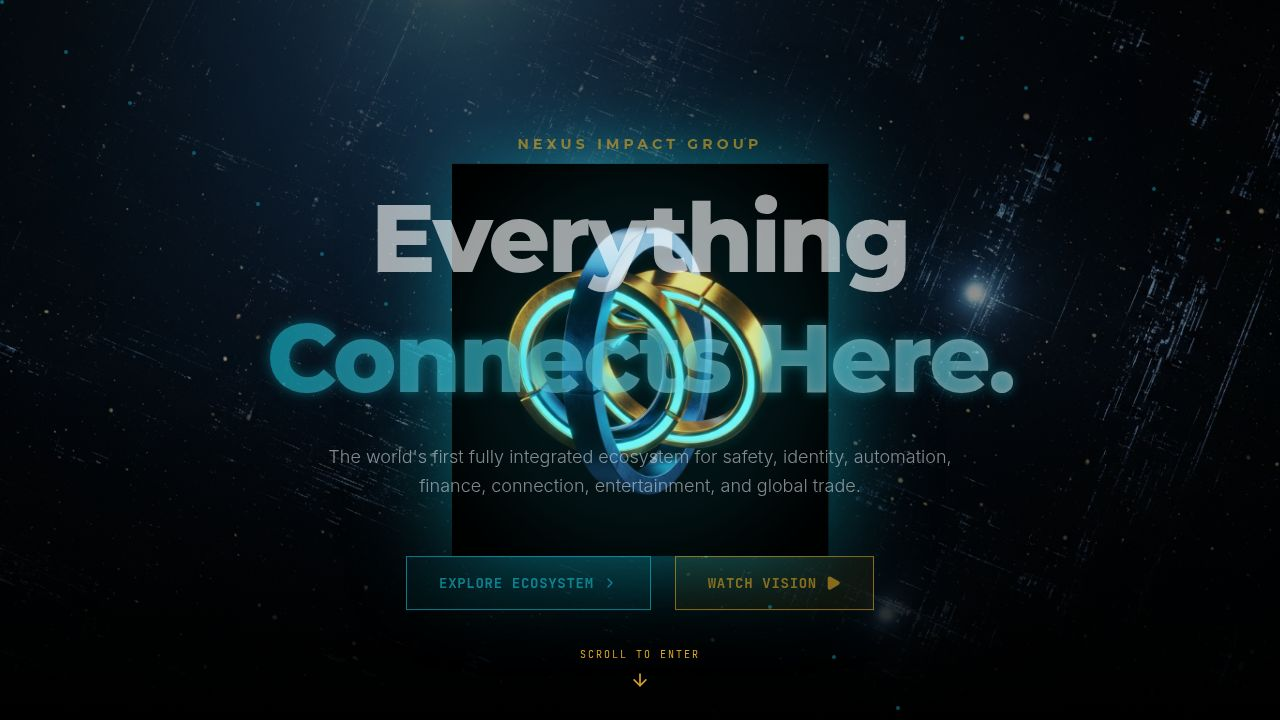
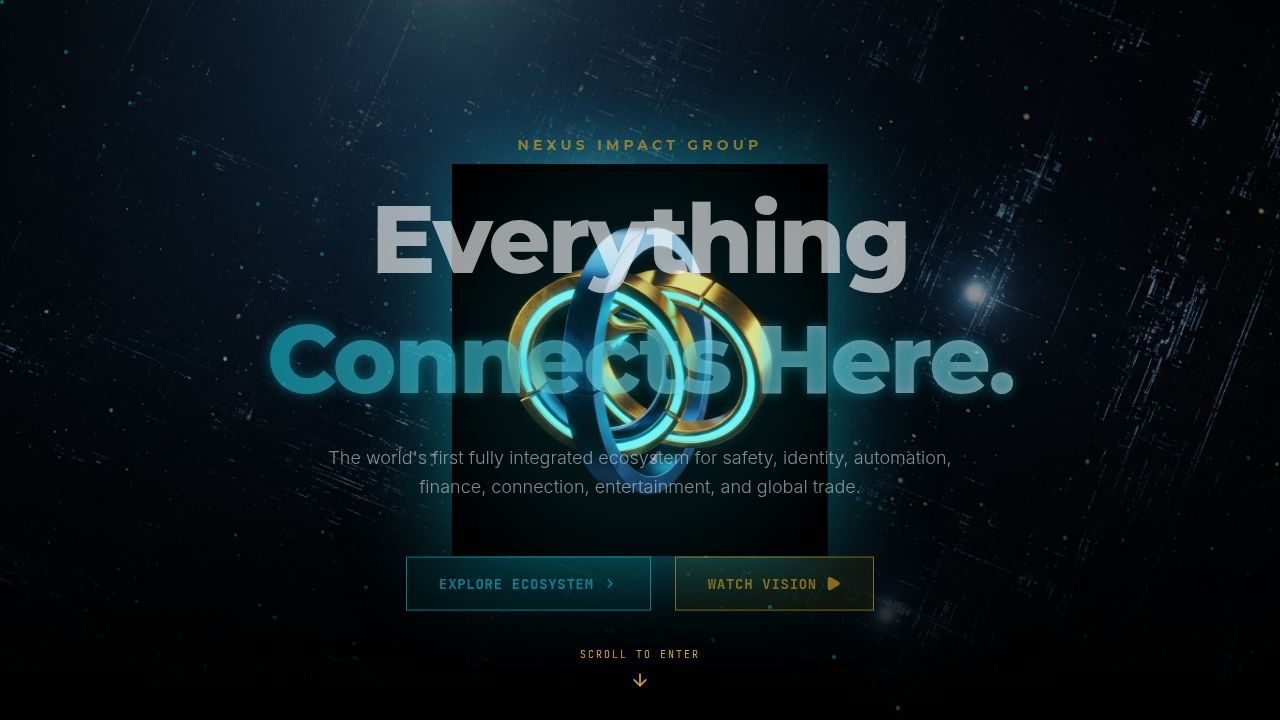
Implement robust security measures and rate limiting across the application
Integrates Helmet for security headers, CORS configuration, session cookie hardening, and various rate limiters for authentication, admin, webhooks, and public APIs. Introduces a honeypot system to trap malicious bots and logs failed login attempts with escalating severity.

Replit-Commit-Author: Agent
Replit-Commit-Session-Id: 8c876a5d-4123-418b-a8ee-dec43ac37e2d
Replit-Commit-Checkpoint-Type: full_checkpoint
Replit-Commit-Event-Id: 5db92831-eaad-4615-9e6a-5a6da0044fc3
Replit-Commit-Screenshot-Url: https://storage.googleapis.com/screenshot-production-us-central1/32500f0c-ae57-4cfb-9fa5-fe228638b5bf/8c876a5d-4123-418b-a8ee-dec43ac37e2d/YYqRui6
Replit-Helium-Checkpoint-Created: true

diff --git a/server/security/honeypot.ts b/server/security/honeypot.ts
@@ -1,0 +1,83 @@
+import { Express, Request, Response } from "express";
+import { logSecurityEvent } from "../agents/securityAgent";
+
+interface ThreatEntry {
+  ip: string;
+  url: string;
+  method: string;
+  userAgent: string;
+  timestamp: Date;
+}
+
+const threatLog: ThreatEntry[] = [];
+
+const TRAP_URLS = [
+  "/wp-admin", "/wp-admin/login", "/wp-login.php",
+  "/admin/login", "/administrator", "/admin.php",
+  "/.env", "/.env.local", "/.env.production", "/.env.backup",
+  "/config.php", "/configuration.php", "/config.json", "/config.yml",
+  "/phpMyAdmin", "/phpmyadmin", "/pma", "/mysql",
+  "/api/v1/users/admin", "/api/config", "/api/debug", "/api/test",
+  "/server-status", "/server-info",
+  "/backup.zip", "/backup.sql", "/dump.sql", "/db.sql",
+  "/install.php", "/setup.php", "/setup",
+  "/.git/config", "/.git/HEAD",
+  "/actuator", "/actuator/env", "/actuator/health",
+  "/console", "/h2-console",
+  "/swagger-ui.html", "/api-docs", "/swagger",
+  "/debug", "/trace", "/heapdump",
+  "/shell", "/cmd", "/exec",
+  "/xmlrpc.php", "/wp-json/wp/v2/users",
+  "/.DS_Store", "/robots.txt.bak",
+  "/sitemap_index.xml.gz",
+];
+
+export function registerHoneypotRoutes(app: Express) {
+  for (const url of TRAP_URLS) {
+    app.all(url, (req: Request, res: Response) => {
+      const ip = req.ip || req.socket?.remoteAddress || "unknown";
+      const entry: ThreatEntry = {
+        ip,
+        url: req.originalUrl,
+        method: req.method,
+        userAgent: req.headers["user-agent"] || "unknown",
+        timestamp: new Date(),
+      };
+      threatLog.push(entry);
+      if (threatLog.length > 500) threatLog.shift();
+
+      console.warn(`[HONEYPOT] ${entry.method} ${entry.url} from ${ip}`);
+
+      logSecurityEvent({
+        appName: "NIG Platform",
+        eventType: "honeypot_hit",
+        severity: "MEDIUM",
+        source: ip,
+        details: `Honeypot triggered: ${entry.method} ${entry.url}`,
+        metadata: JSON.stringify({ userAgent: entry.userAgent, url: entry.url, method: entry.method }),
+      }).catch(() => {});
+
+      setTimeout(() => {
+        res.status(200).send("<!-- WordPress 6.4.1 -->");
+      }, 8000);
+    });
+  }
+  console.log(`[HONEYPOT] ${TRAP_URLS.length} trap endpoints active`);
+}
+
+export function getThreatStats() {
+  const ipCounts: Record<string, number> = {};
+  for (const entry of threatLog) {
+    ipCounts[entry.ip] = (ipCounts[entry.ip] || 0) + 1;
+  }
+  const topAttackers = Object.entries(ipCounts)
+    .sort(([, a], [, b]) => b - a)
+    .slice(0, 10)
+    .map(([ip, count]) => ({ ip, count }));
+  return {
+    total: threatLog.length,
+    last24h: threatLog.filter(e => Date.now() - e.timestamp.getTime() < 86_400_000).length,
+    topAttackers,
+    recentHits: [...threatLog].reverse().slice(0, 20),
+  };
+}

diff --git a/server/index.ts b/server/index.ts
@@ -1,7 +1,10 @@
 import express, { type Request, Response, NextFunction } from "express";
+import helmet from "helmet";
+import cors from "cors";
 import { registerRoutes } from "./routes";
 import { serveStatic } from "./static";
 import { createServer } from "http";
+import { authLimiter, adminLimiter, publicLimiter } from "./security/rateLimiter";
 
 const app = express();
 const httpServer = createServer(app);
@@ -12,6 +15,31 @@ declare module "http" {
   }
 }
 
+// ── Security headers ────────────────────────────────────────────────────────
+app.use(helmet({
+  contentSecurityPolicy: false,
+  crossOriginEmbedderPolicy: false,
+}));
+
+// ── CORS ─────────────────────────────────────────────────────────────────────
+const rawAllowed = process.env.ALLOWED_ORIGINS || "";
+const allowedOrigins = rawAllowed
+  ? rawAllowed.split(",").map(o => o.trim()).filter(Boolean)
+  : [];
+
+app.use(cors({
+  origin: (origin, callback) => {
+    if (!origin) return callback(null, true);
+    if (process.env.NODE_ENV !== "production") return callback(null, true);
+    if (allowedOrigins.length === 0 || allowedOrigins.includes(origin)) {
+      return callback(null, true);
+    }
+    callback(new Error("Not allowed by CORS"));
+  },
+  credentials: true,
+}));
+
+// ── Body parsers ─────────────────────────────────────────────────────────────
 app.use(
   express.json({
     limit: "10mb",
@@ -20,8 +48,15 @@ app.use(
     },
   }),
 );
-
 app.use(express.urlencoded({ extended: false, limit: "10mb" }));
+
+// ── Rate limiting ─────────────────────────────────────────────────────────────
+app.use("/api/auth/login", authLimiter);
+app.use("/api/auth/register", authLimiter);
+app.use("/api/admin", adminLimiter);
+app.use("/api/marketplace/inquiry", publicLimiter);
+app.use("/api/inquiries", publicLimiter);
+app.use("/api/subscribe", publicLimiter);
 
 export function log(message: string, source = "express") {
   const formattedTime = new Date().toLocaleTimeString("en-US", {
@@ -30,7 +65,6 @@ export function log(message: string, source = "express") {
     second: "2-digit",
     hour12: true,
   });
-
   console.log(`${formattedTime} [${source}] ${message}`);
 }
 
@@ -52,7 +86,6 @@ app.use((req, res, next) => {
       if (capturedJsonResponse) {
         logLine += ` :: ${JSON.stringify(capturedJsonResponse)}`;
       }
-
       log(logLine);
     }
   });
@@ -67,11 +100,17 @@ app.use((req, res, next) => {
     registerAuthRoutes(app);
   } else {
     const sessionMod = await import("express-session");
+    const isProduction = process.env.NODE_ENV === "production";
     app.use(sessionMod.default({
-      secret: process.env.SESSION_SECRET || "nig-dev-secret",
+      secret: process.env.SESSION_SECRET || "nig-dev-secret-change-in-prod",
       resave: false,
       saveUninitialized: false,
-      cookie: { secure: false, maxAge: 7 * 24 * 60 * 60 * 1000 },
+      cookie: {
+        httpOnly: true,
+        secure: isProduction,
+        sameSite: "lax",
+        maxAge: 7 * 24 * 60 * 60 * 1000,
+      },
     }));
   }
 
@@ -80,14 +119,10 @@ app.use((req, res, next) => {
   app.use((err: any, _req: Request, res: Response, _next: NextFunction) => {
     const status = err.status || err.statusCode || 500;
     const message = err.message || "Internal Server Error";
-
     res.status(status).json({ message });
     throw err;
   });
 
-  // importantly only setup vite in development and after
-  // setting up all the other routes so the catch-all route
-  // doesn't interfere with the other routes
   if (process.env.NODE_ENV === "production") {
     serveStatic(app);
   } else {
@@ -95,19 +130,9 @@ app.use((req, res, next) => {
     await setupVite(httpServer, app);
   }
 
-  // ALWAYS serve the app on the port specified in the environment variable PORT
-  // Other ports are firewalled. Default to 5000 if not specified.
-  // this serves both the API and the client.
-  // It is the only port that is not firewalled.
   const port = parseInt(process.env.PORT || "5000", 10);
   httpServer.listen(
-    {
-      port,
-      host: "0.0.0.0",
-      reusePort: true,
-    },
-    () => {
-      log(`serving on port ${port}`);
-    },
+    { port, host: "0.0.0.0", reusePort: true },
+    () => { log(`serving on port ${port}`); },
   );
 })();

diff --git a/server/commandCenterAuth.ts b/server/commandCenterAuth.ts
@@ -1,8 +1,12 @@
 import type { Express, RequestHandler } from "express";
 import crypto from "crypto";
+import { logSecurityEvent } from "./agents/securityAgent";
 
 const PASSWORD_HASH = process.env.COMMAND_CENTER_PASSWORD_HASH || "";
 const SALT = "nig-salt-2026";
+
+interface FailEntry { count: number; lastAt: Date; }
+const failLog: Record<string, FailEntry> = {};
 
 function verifyPassword(input: string): boolean {
   if (!PASSWORD_HASH) return false;
@@ -13,13 +17,43 @@ function verifyPassword(input: string): boolean {
 export function registerCommandCenterAuth(app: Express) {
   app.post("/api/auth/login", (req, res) => {
     const { password } = req.body || {};
+    const ip = req.ip || "unknown";
+    const ua = req.headers["user-agent"] || "unknown";
+
     if (!password) {
       return res.status(400).json({ success: false, message: "Password required" });
     }
+
     if (verifyPassword(password)) {
+      delete failLog[ip];
+      logSecurityEvent({
+        appName: "NIG Command Center",
+        eventType: "login_success",
+        severity: "INFO",
+        source: ip,
+        details: `Successful login from ${ip}`,
+        metadata: JSON.stringify({ userAgent: ua }),
+      }).catch(() => {});
       (req.session as any).commandCenterAuth = true;
       return res.json({ success: true });
     }
+
+    if (!failLog[ip]) failLog[ip] = { count: 0, lastAt: new Date() };
+    failLog[ip].count++;
+    failLog[ip].lastAt = new Date();
+
+    const severity = failLog[ip].count >= 10 ? "HIGH" : failLog[ip].count >= 5 ? "MEDIUM" : "LOW";
+    console.warn(`[SECURITY] Failed login from ${ip} — attempt #${failLog[ip].count}`);
+
+    logSecurityEvent({
+      appName: "NIG Command Center",
+      eventType: "login_failed",
+      severity,
+      source: ip,
+      details: `Failed login attempt #${failLog[ip].count} from ${ip}`,
+      metadata: JSON.stringify({ userAgent: ua, totalAttempts: failLog[ip].count }),
+    }).catch(() => {});
+
     return res.status(401).json({ success: false, message: "Invalid password" });
   });
 
@@ -39,3 +73,11 @@ export const requireCommandCenterAuth: RequestHandler = (req, res, next) => {
   if ((req.session as any)?.commandCenterAuth) return next();
   res.status(401).json({ success: false, message: "Unauthorized" });
 };
+
+export function getFailedLoginAttempts() {
+  return Object.entries(failLog).map(([ip, data]) => ({
+    ip,
+    count: data.count,
+    lastAt: data.lastAt,
+  })).sort((a, b) => b.count - a.count);
+}

diff --git a/server/security/rateLimiter.ts b/server/security/rateLimiter.ts
@@ -1,0 +1,34 @@
+import rateLimit from "express-rate-limit";
+
+export const authLimiter = rateLimit({
+  windowMs: 15 * 60 * 1000,
+  max: 10,
+  message: { error: "Too many login attempts. Try again in 15 minutes." },
+  standardHeaders: true,
+  legacyHeaders: false,
+  skipSuccessfulRequests: true,
+});
+
+export const adminLimiter = rateLimit({
+  windowMs: 15 * 60 * 1000,
+  max: 300,
+  message: { error: "Too many requests to admin API." },
+  standardHeaders: true,
+  legacyHeaders: false,
+});
+
+export const webhookLimiter = rateLimit({
+  windowMs: 60 * 1000,
+  max: 120,
+  message: { error: "Webhook rate limit exceeded." },
+  standardHeaders: true,
+  legacyHeaders: false,
+});
+
+export const publicLimiter = rateLimit({
+  windowMs: 60 * 1000,
+  max: 60,
+  message: { error: "Too many requests. Please slow down." },
+  standardHeaders: true,
+  legacyHeaders: false,
+});

diff --git a/server/routes.ts b/server/routes.ts
@@ -24,7 +24,9 @@ import { runOpportunityHunter, runRevenueGenerator, runGrowthEngine, runSystemOp
 import { scheduler } from "./agents/scheduler";
 import { collectDivisionData, pingAllDivisions, checkDivisionHealth } from "./agents/divisionCollector";
 import { runSecurityScan, logSecurityEvent, askSecurityAgent } from "./agents/securityAgent";
-import { registerCommandCenterAuth, requireCommandCenterAuth } from "./commandCenterAuth";
+import { registerCommandCenterAuth, requireCommandCenterAuth, getFailedLoginAttempts } from "./commandCenterAuth";
+import { registerHoneypotRoutes, getThreatStats } from "./security/honeypot";
+import { webhookLimiter } from "./security/rateLimiter";
 import { generateOutreachDraft, generateCrossDivisionRecommendations, summarizeContact, getCrmPipelineSummary } from "./agents/crmAgent";
 import { insertCrmContactSchema, insertCrmDealSchema, insertCrmActivitySchema } from "@shared/schema";
 
@@ -1080,7 +1082,7 @@ export async function registerRoutes(
     });
   });
 
-  app.post("/api/webhook/event", async (req, res) => {
+  app.post("/api/webhook/event", webhookLimiter, async (req, res) => {
     const token = getWebhookToken();
     const provided = req.headers["x-nig-key"];
     if (!provided || provided !== token) {
@@ -1731,8 +1733,21 @@ export async function registerRoutes(
     }
   });
 
+  // ── SECURITY ADMIN ENDPOINTS ──────────────────────────────────────────────────
+
+  app.get("/api/admin/threats", isAdmin, (_req, res) => {
+    res.json(getThreatStats());
+  });
+
+  app.get("/api/admin/failed-logins", isAdmin, (_req, res) => {
+    res.json({ attempts: getFailedLoginAttempts() });
+  });
+
   // Auto-start scheduler
   scheduler.start();
+
+  // ── HONEYPOT — must be last, after all real routes ────────────────────────────
+  registerHoneypotRoutes(app);
 
   return httpServer;
 }